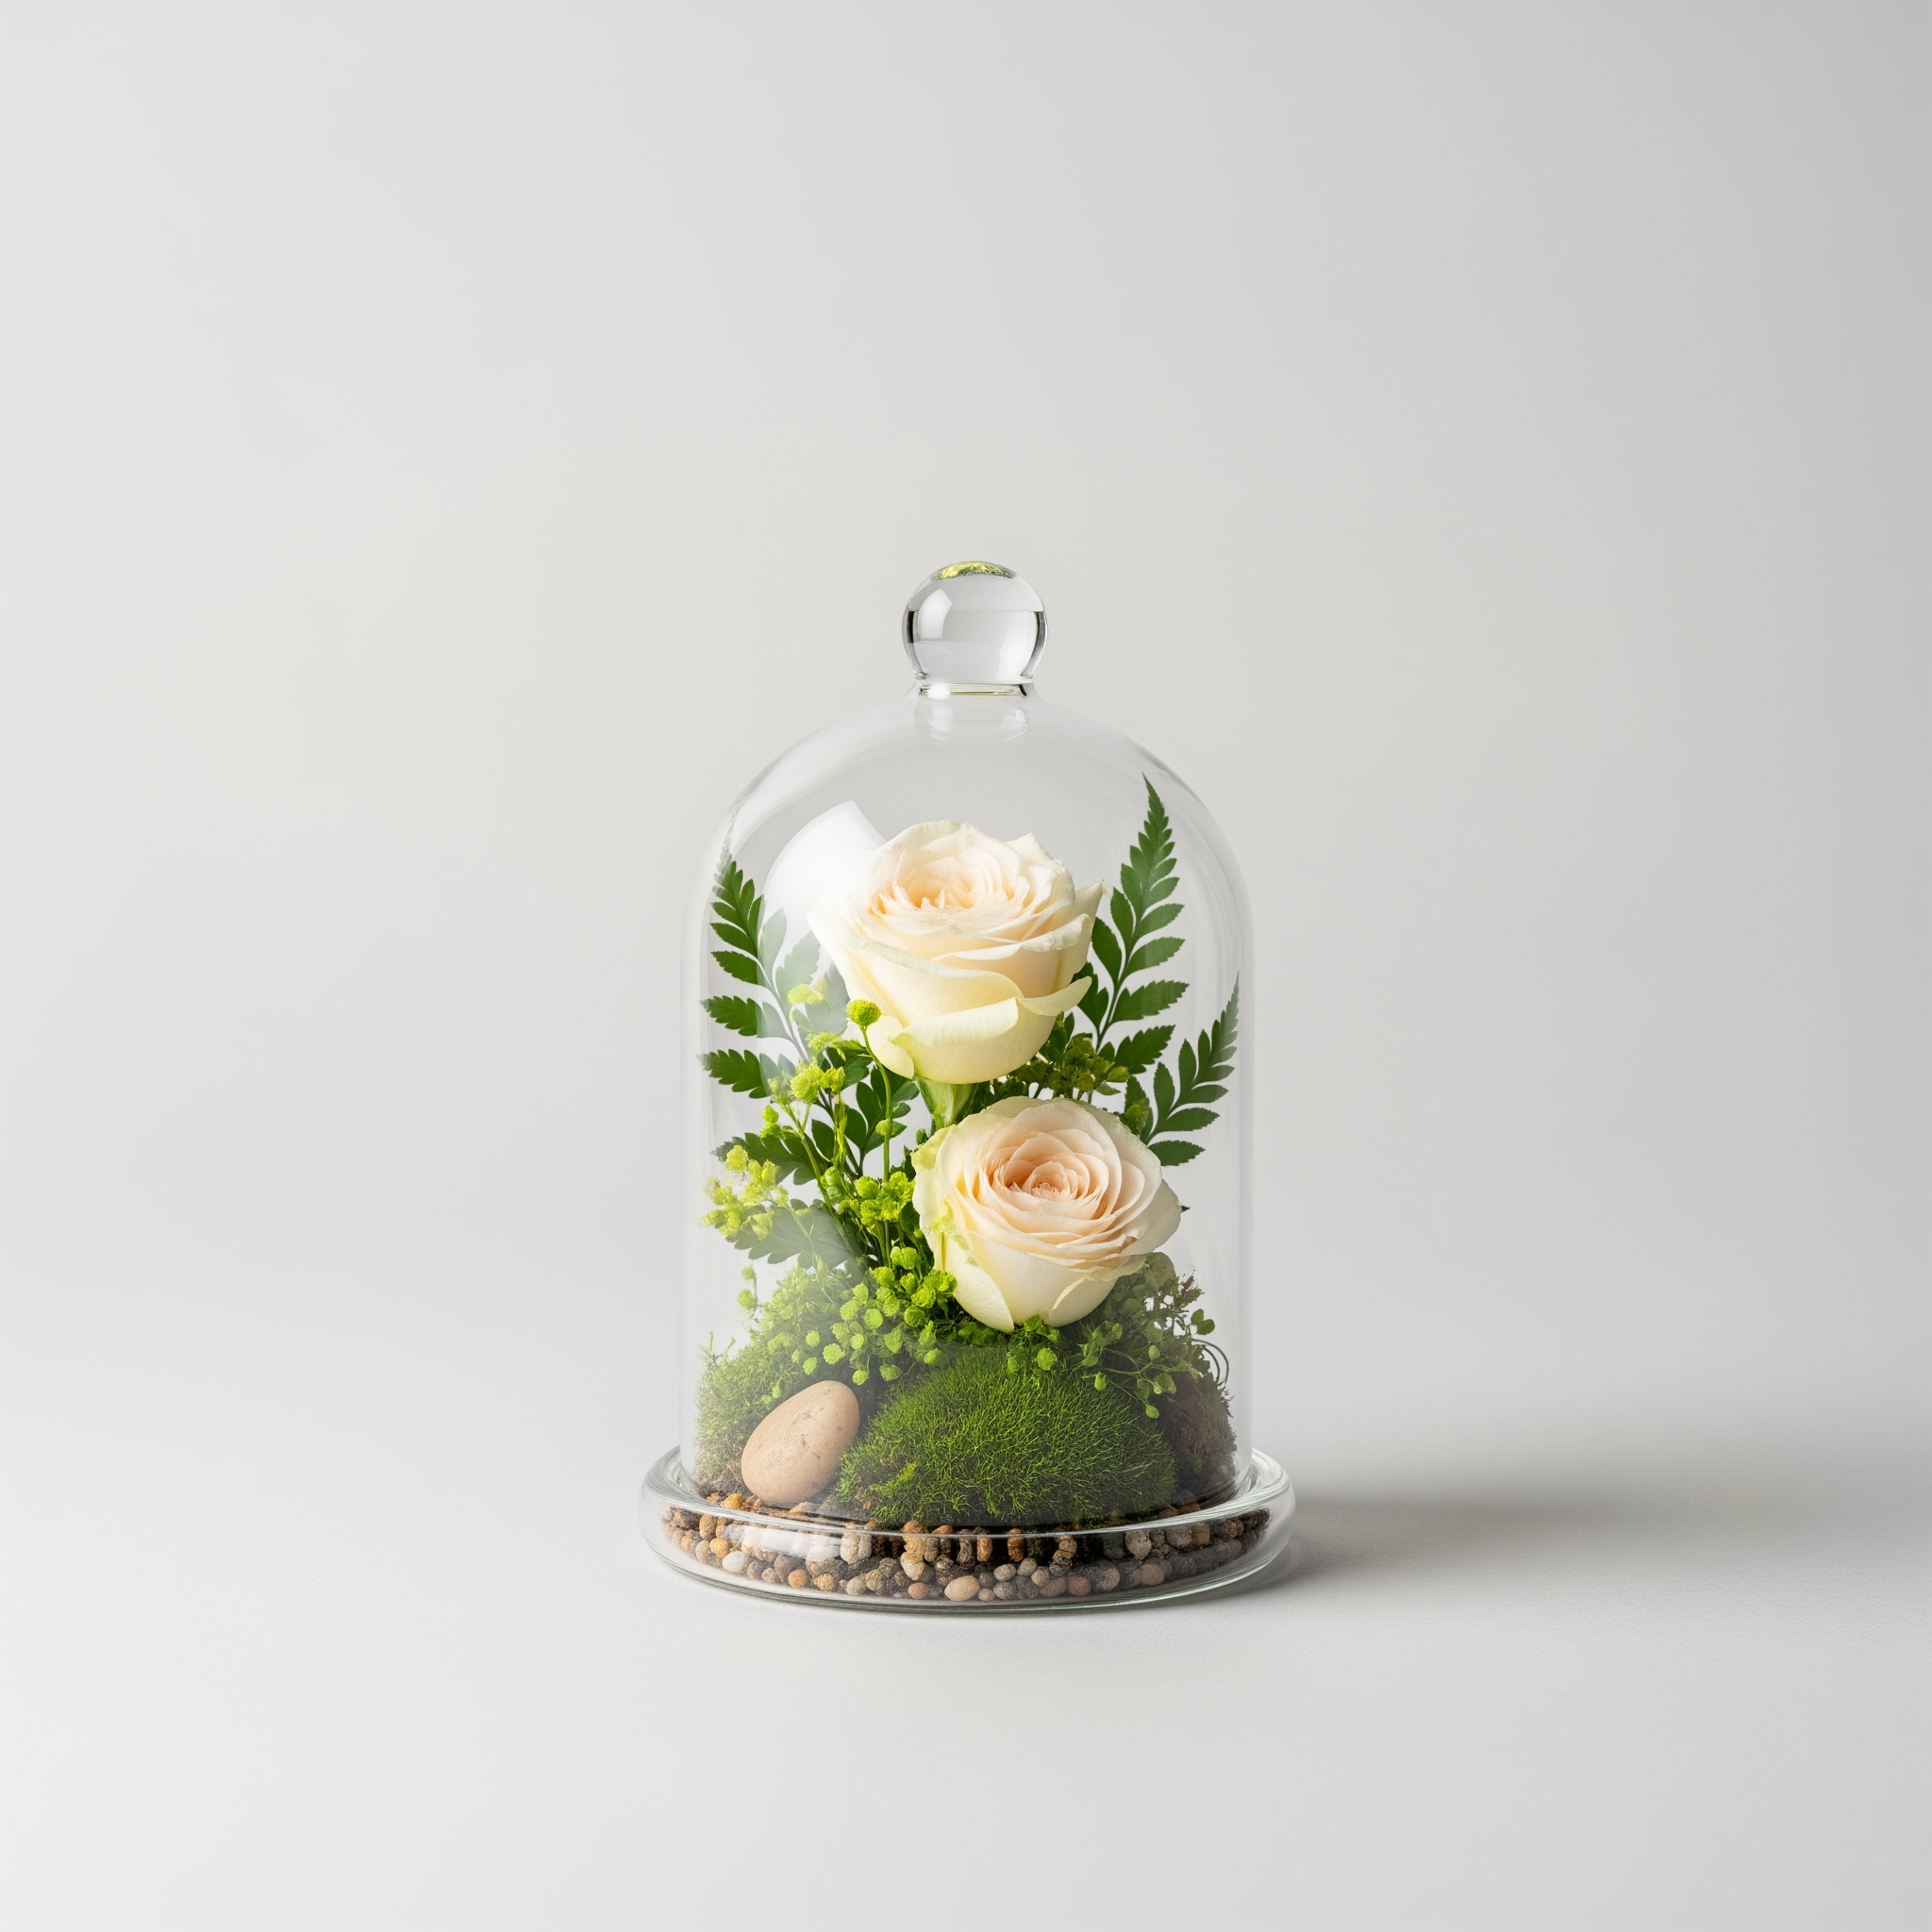
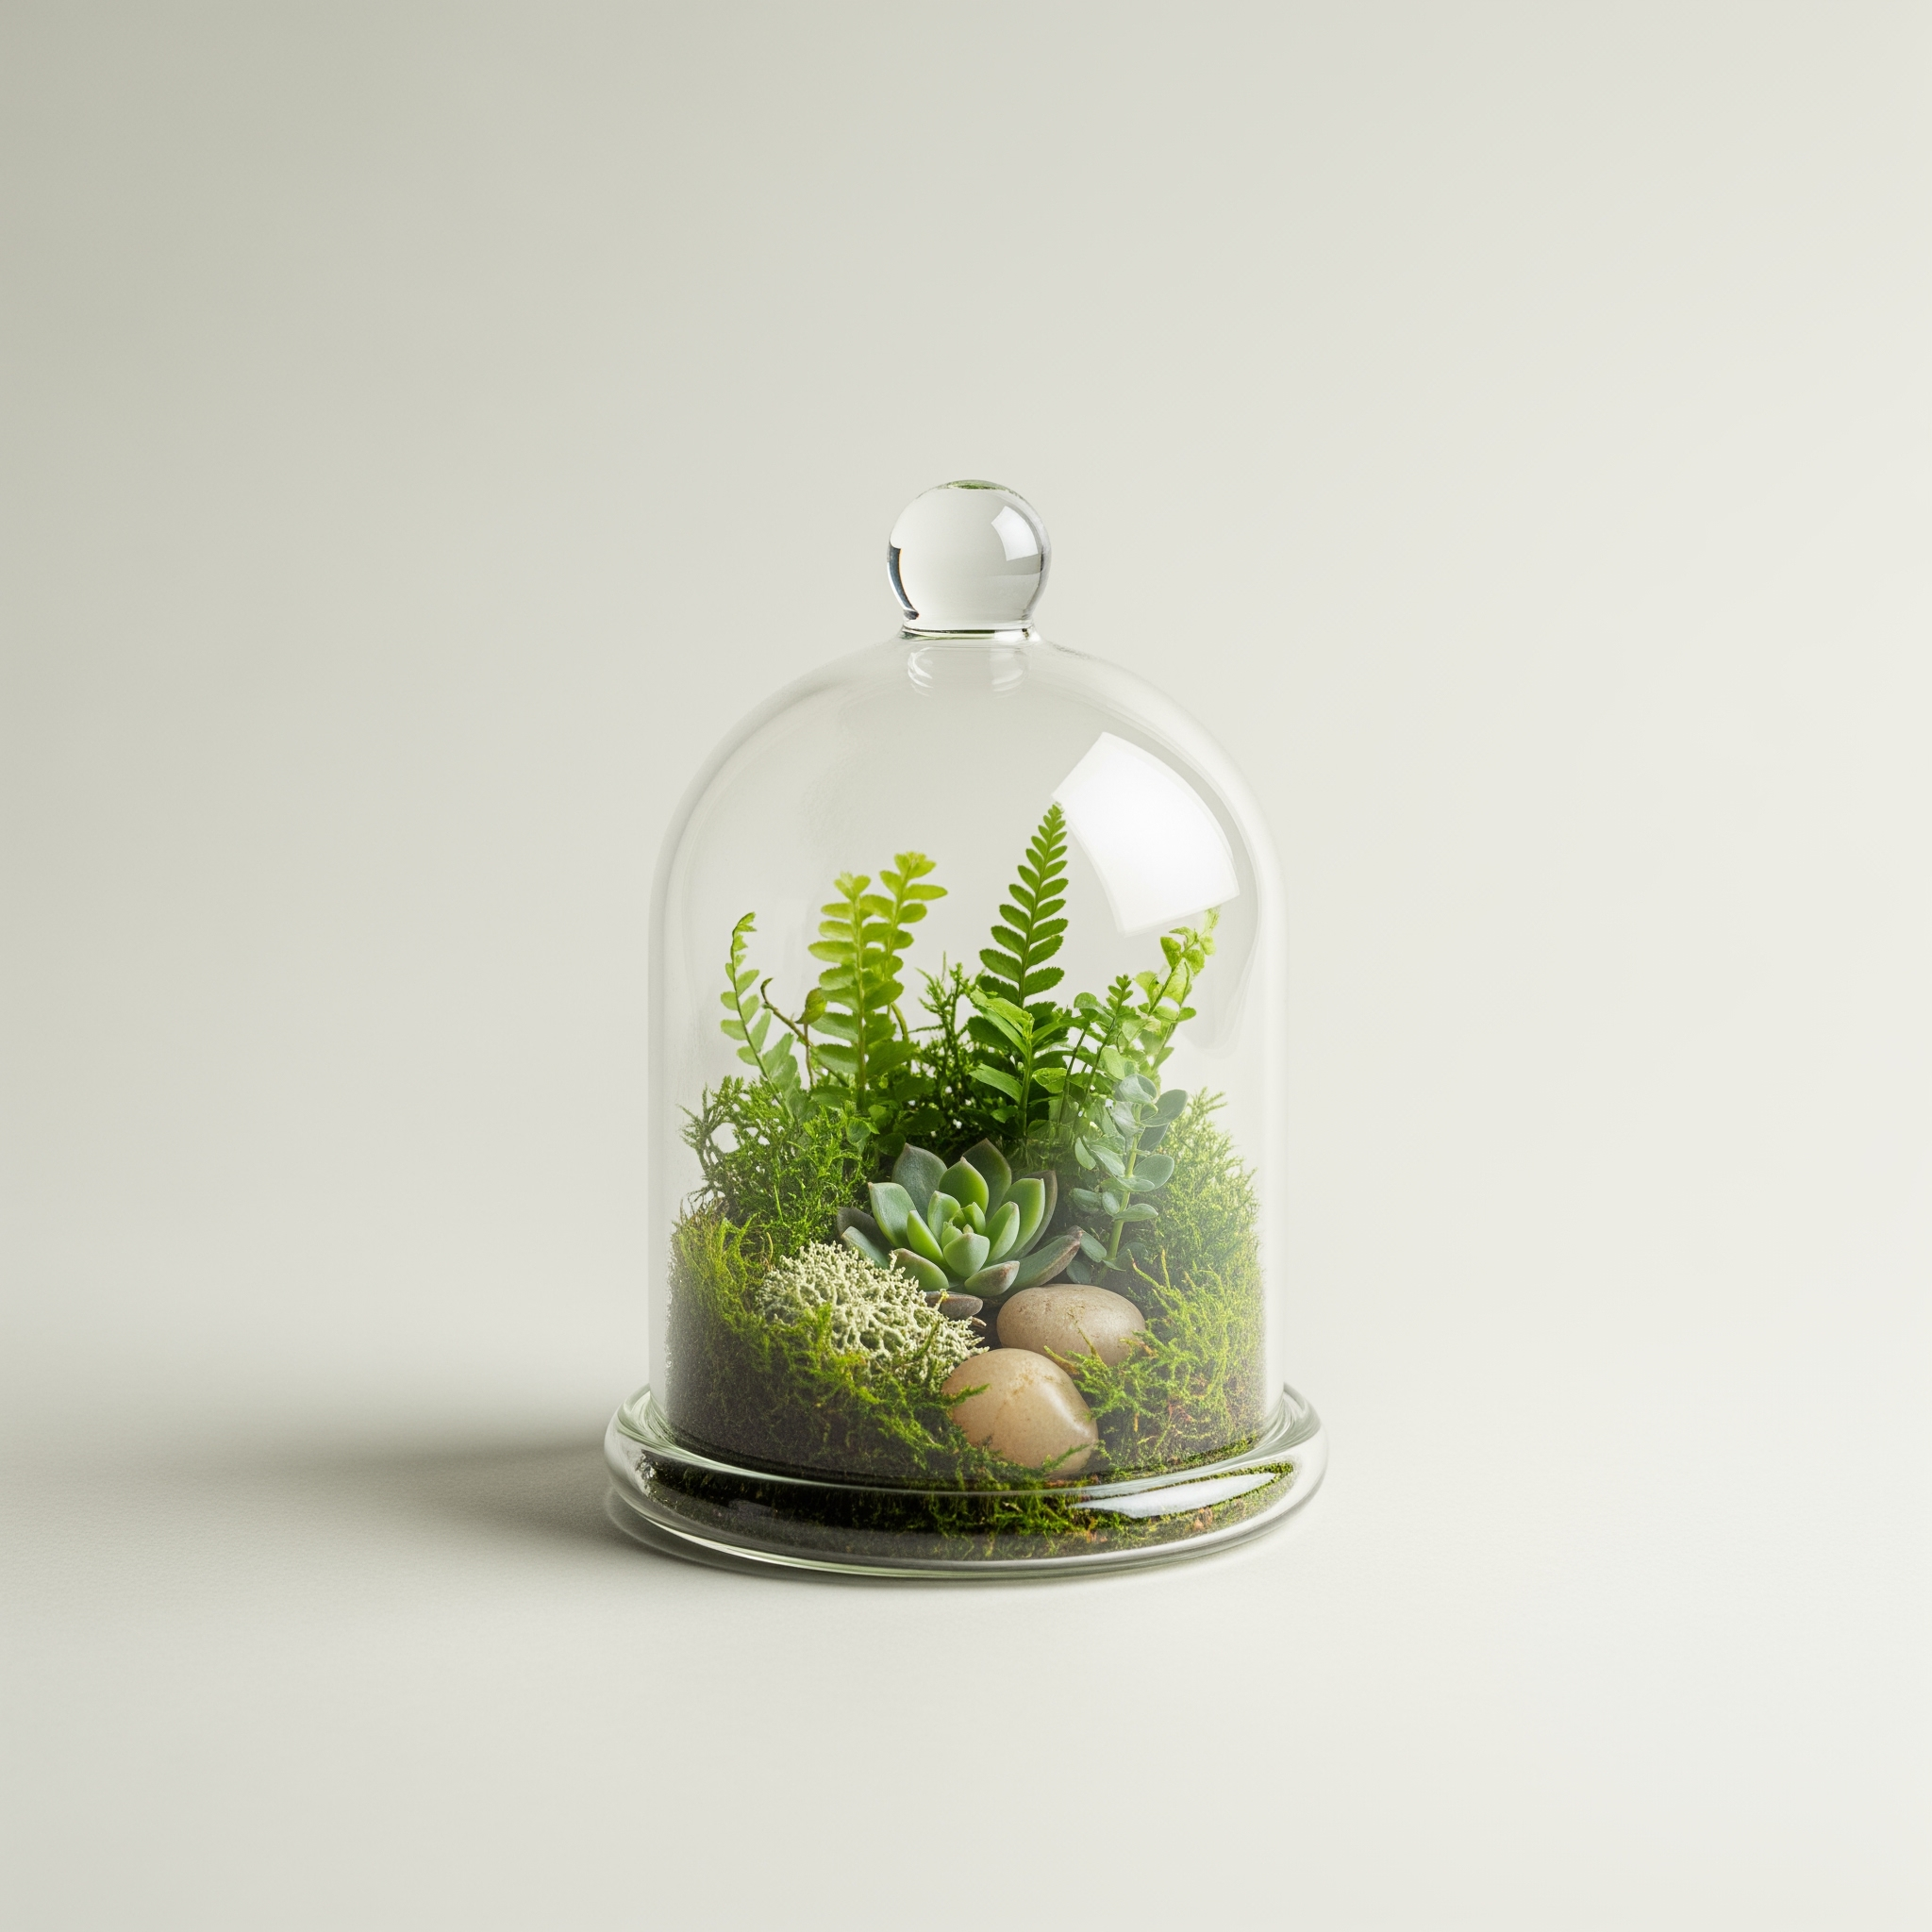
테라리움 — 꽃 제거하고 초록 식물(이끼·고사리·다육)만
https://claude.ai/code/session_01PKG67JpzLya5ysJX1NfHtS

diff --git a/scripts/generate-images.ts b/scripts/generate-images.ts
@@ -210,8 +210,8 @@ const SPECS: Spec[] = [
     kind: "product",
     prompt:
       "A close-up indoor studio product photograph of one small clear glass bell jar cloche standing on a plain surface, " +
-      "with green moss, tiny ferns and small pebbles arranged inside the glass jar. " +
-      "The single glass jar fills the frame, indoor product shot, no flowers, no people, no tree, no outdoor scene. " +
+      "with lush green moss, tiny ferns, small succulents and a few pebbles arranged inside the glass jar — only green plants, no flowers at all. " +
+      "The single glass jar fills the frame, indoor product shot, no flowers, no roses, no people, no tree, no outdoor scene. " +
       STYLE,
   },
 ];